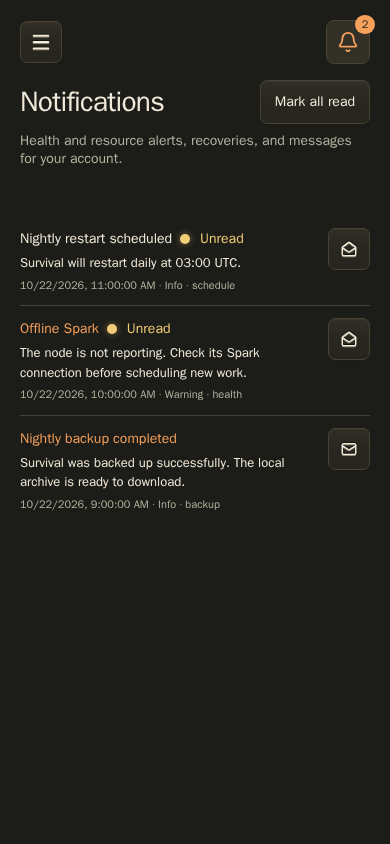
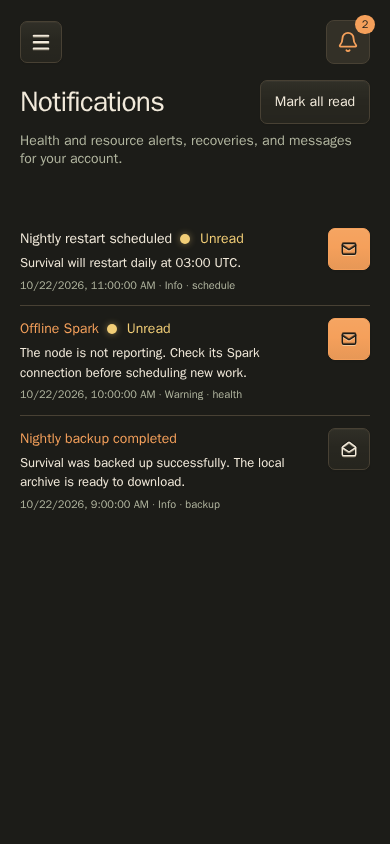
Reflect notification read state in envelope actions
Show a closed envelope with primary styling for unread notifications and an open envelope with neutral styling for read notifications. Preserve action-oriented tooltips and accessible labels. Refresh existing desktop and mobile screenshots.

Changed region(s): [[0.8308, 0.2464, 0.9538, 0.3389], [0.8308, 0.3697, 0.9538, 0.4313], [0.8615, 0.5237, 0.9231, 0.5545]]

diff --git a/web/src/pages/NotificationsPage.tsx b/web/src/pages/NotificationsPage.tsx
@@ -210,6 +210,7 @@ export function NotificationsPage() {
             <Button
               size="small"
               iconOnly
+              variant={item.read_at ? "default" : "primary"}
               title={i18n.t(
                 item.read_at
                   ? "notificationsPage.markUnread"
@@ -228,7 +229,7 @@ export function NotificationsPage() {
                 );
               }}
             >
-              <NavigationIcon name={item.read_at ? "mail" : "mail-open"} />
+              <NavigationIcon name={item.read_at ? "mail-open" : "mail"} />
             </Button>
           </article>
         ))}
